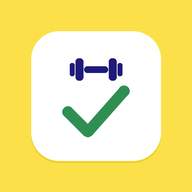
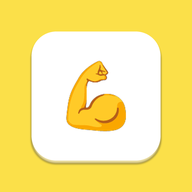
홈 화면 앱 아이콘을 💪 이모지 디자인으로 교체, 캐시 버전 v3

diff --git a/sw.js b/sw.js
@@ -1,5 +1,5 @@
 /* 세은 운동 PWA 서비스워커 - network-first, 오프라인은 캐시로 */
-var CACHE = 'seeun-workout-v2';
+var CACHE = 'seeun-workout-v3';
 var ASSETS = ['./', './index.html', './manifest.webmanifest', './icon-192.png', './icon-512.png', './icon-maskable-192.png', './icon-maskable-512.png'];
 
 self.addEventListener('install', function (e) {
